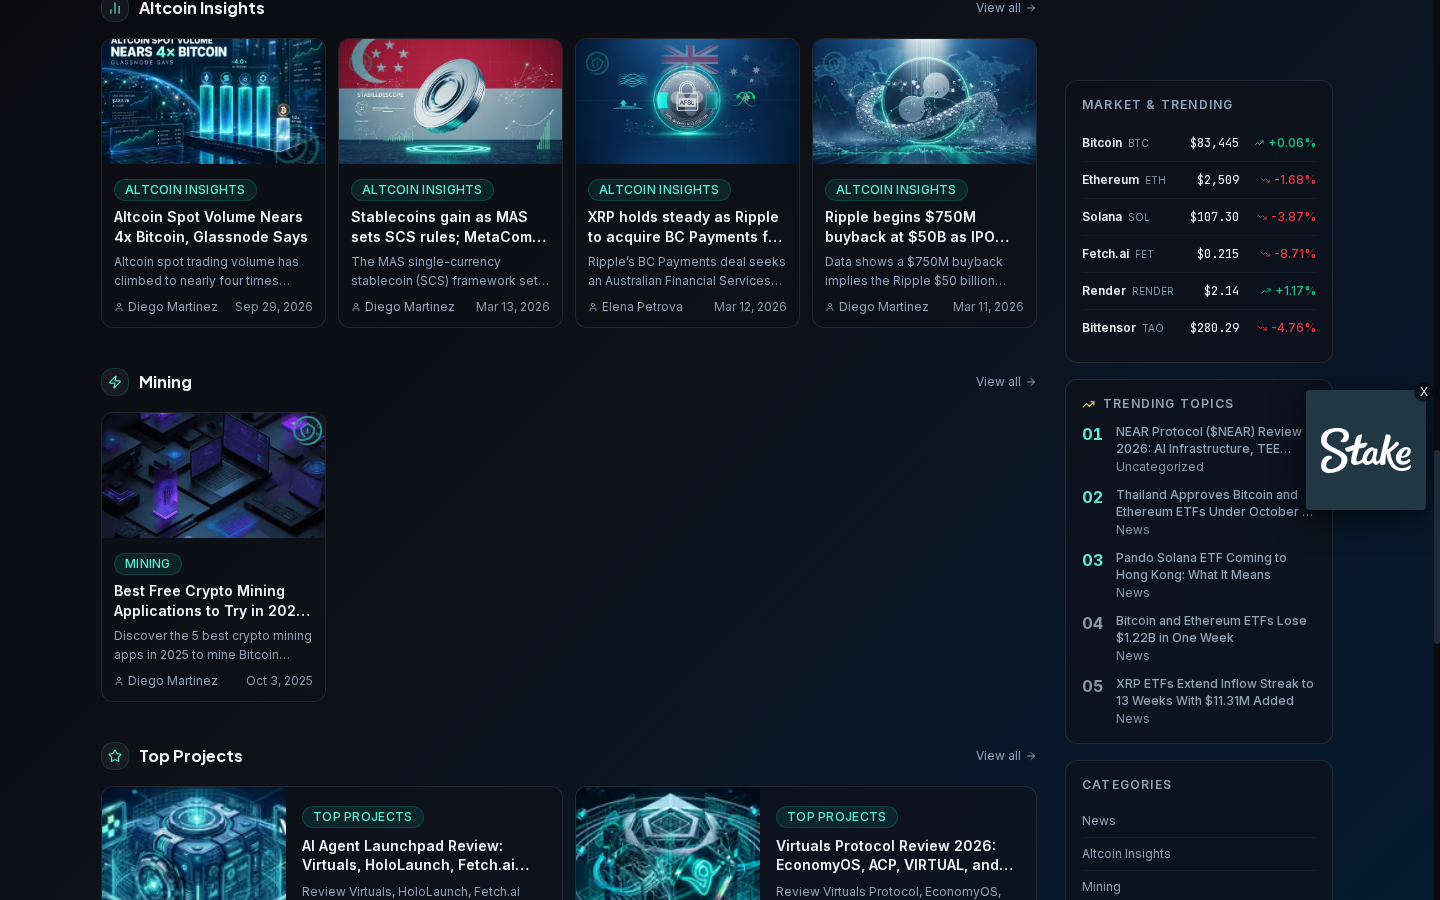
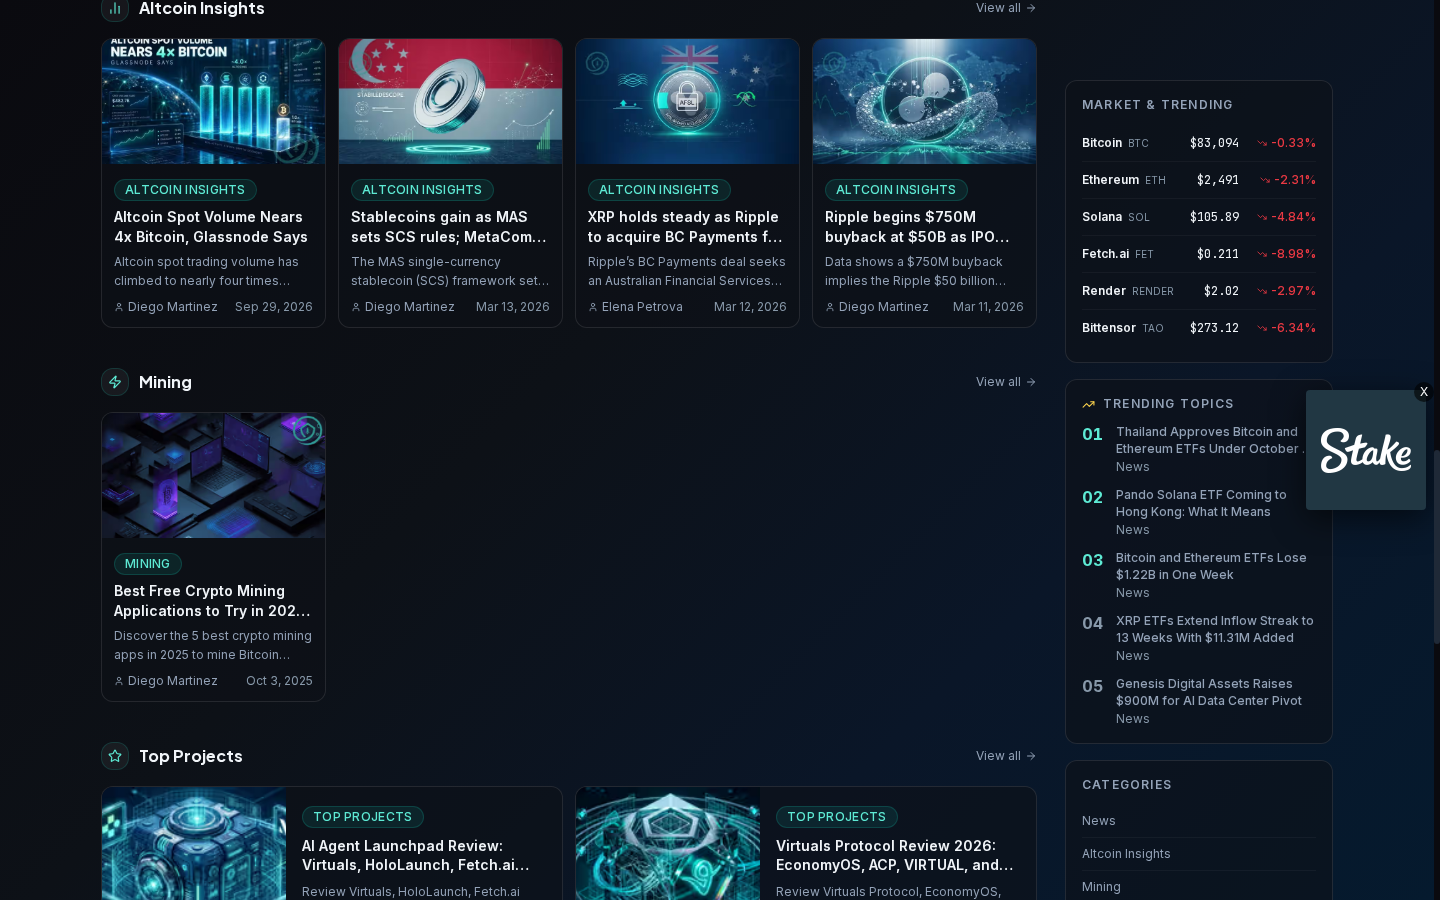
audit(aicryptocore.com): 2026-10-13 score 59/100

diff --git a/sites/aicryptocore.com/audit-2026-10-13.md b/sites/aicryptocore.com/audit-2026-10-13.md
@@ -7,10 +7,10 @@
 | Technical Seo | 14 | 25 | C+ | WARN |
 | Performance | 18 | 20 | A+ | OK |
 | Ui Ux | 8 | 20 | C | FAIL |
-| Eeat | 4 | 15 | D | FAIL |
+| Eeat | 8 | 15 | C+ | WARN |
 | Security | 3 | 10 | D | FAIL |
 | Geo | 8 | 10 | A | OK |
-| **OVERALL** | **55** | **100** | | |
+| **OVERALL** | **59** | **100** | | |
 
 ## Issues Summary
 - **High:** 3 issues
@@ -69,9 +69,9 @@
 - **Fix:** Add 3-5 QA + FAQPage JSON-LD at end of analysis articles
 - **Effort:** 2h per template
 
-### [AI-008] Low word count (0)  MEDIUM
+### [AI-008] Low word count (556)  MEDIUM
 - **Category:** eeat
-- **What:** Only 0 words
+- **What:** Only 556 words
 - **Why:** Thin content
 - **Fix:** Expand analysis articles to 1000-1500 words
 - **Effort:** ongoing
@@ -84,15 +84,15 @@
 - **Effort:** 1day
 
 ## Raw Data
-- FCP:108ms  Load:197ms  Resources:46
+- FCP:140ms  Load:238ms  Resources:47
 - Schema homepage: ['WebSite', ['NewsMediaOrganization', 'ImageObject'], ['WebPage', 'WebSite', 'ImageObject']]
 - Footer: YES  Search: NO
 - HSTS:MISSING  CSP:MISSING
 - llms.txt:200  AI bots:{'GPTBot': True, 'ClaudeBot': True, 'PerplexityBot': True, 'Google-Extended': True}
 - Trust pages: {'about': 200, 'editorial': 200, 'team': 404, 'contact': 404, 'privacy': 200}
-- Article:   words:0
-  Schema:None  Author:MISSING
-  TOC:None  FAQ:None  Related:0
+- Article: https://aicryptocore.com/thailand-approves-bitcoin-ethereum-etfs-october-16-rules  words:556
+  Schema:NewsArticle  Author:MISSING
+  TOC:False  FAQ:False  Related:0
 
 ## Priority Action Plan
 | # | Priority | ID | Task | Effort |
@@ -104,5 +104,5 @@
 | 5 | Medium | AI-004 | Images missing alt (1) | 2h |
 | 6 | Medium | AI-006 | No Table of Contents | 1day |
 | 7 | Medium | AI-007 | No FAQ section | 2h per template |
-| 8 | Medium | AI-008 | Low word count (0) | ongoing |
+| 8 | Medium | AI-008 | Low word count (556) | ongoing |
 | 9 | Low | AI-009 | No related posts | 1day |
